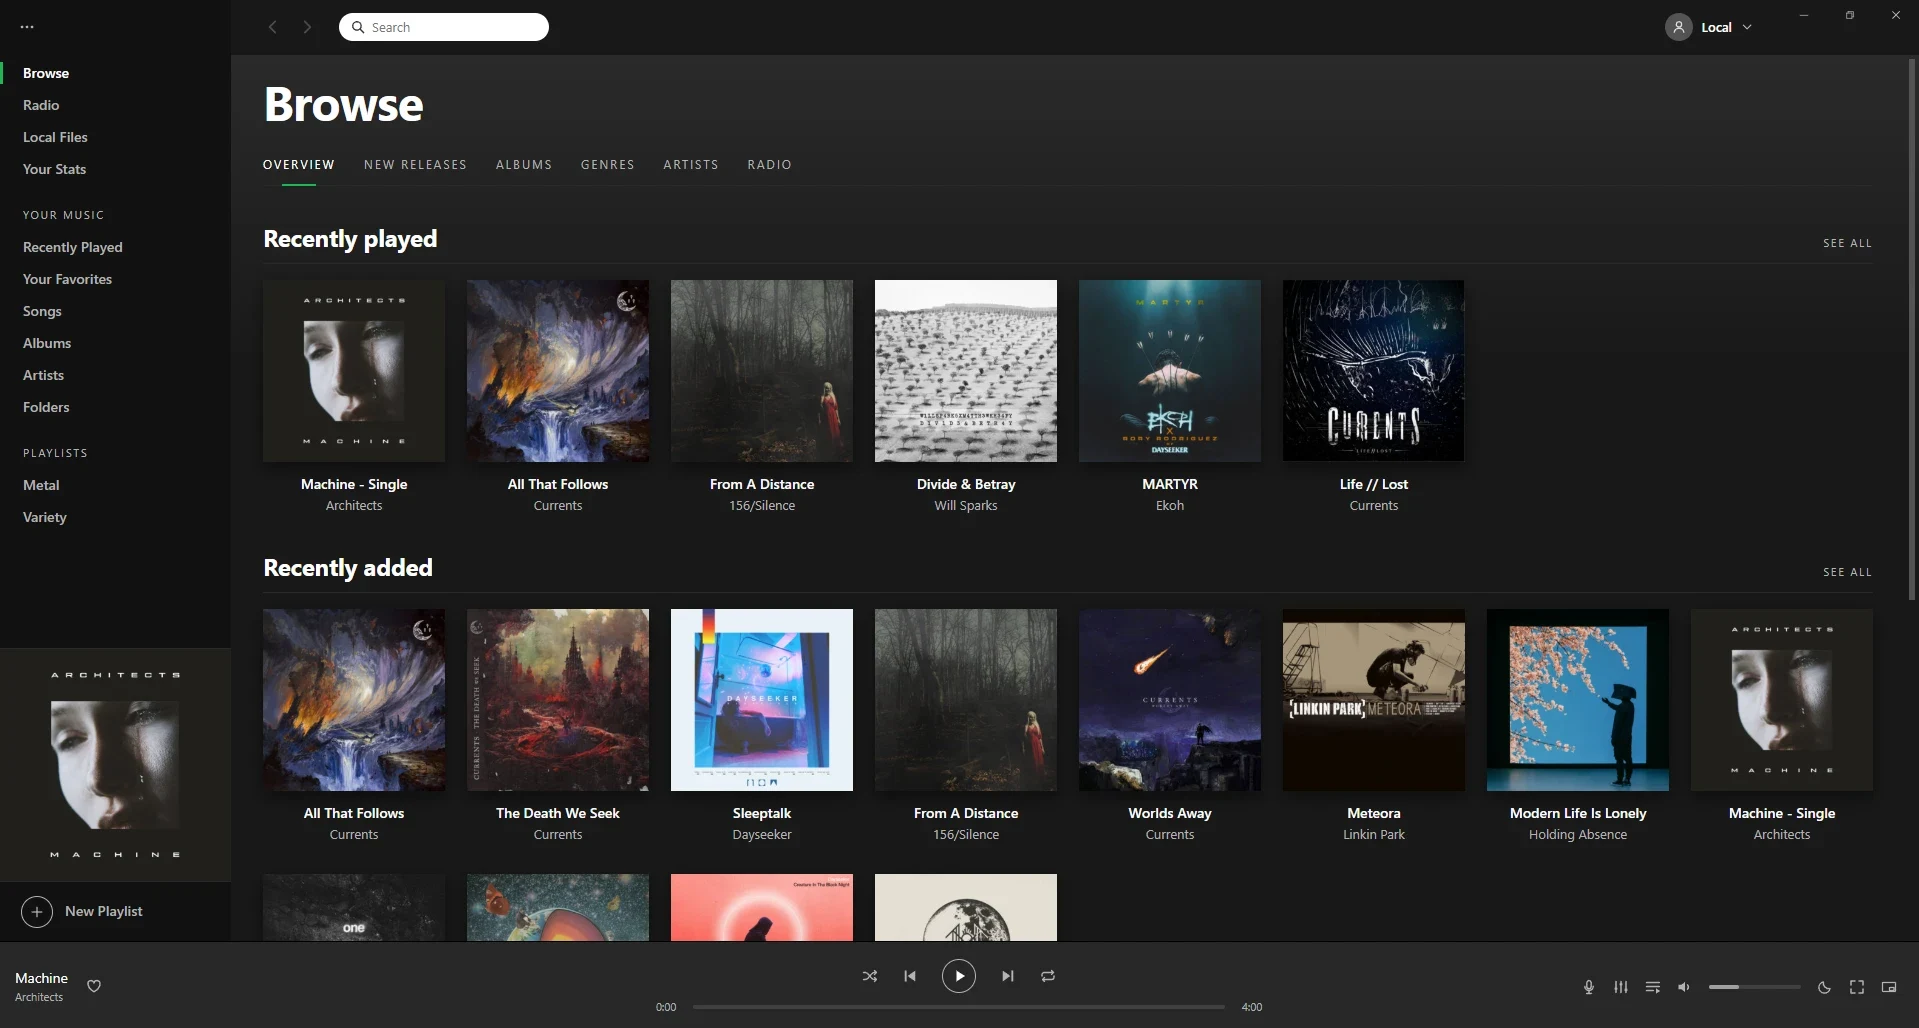
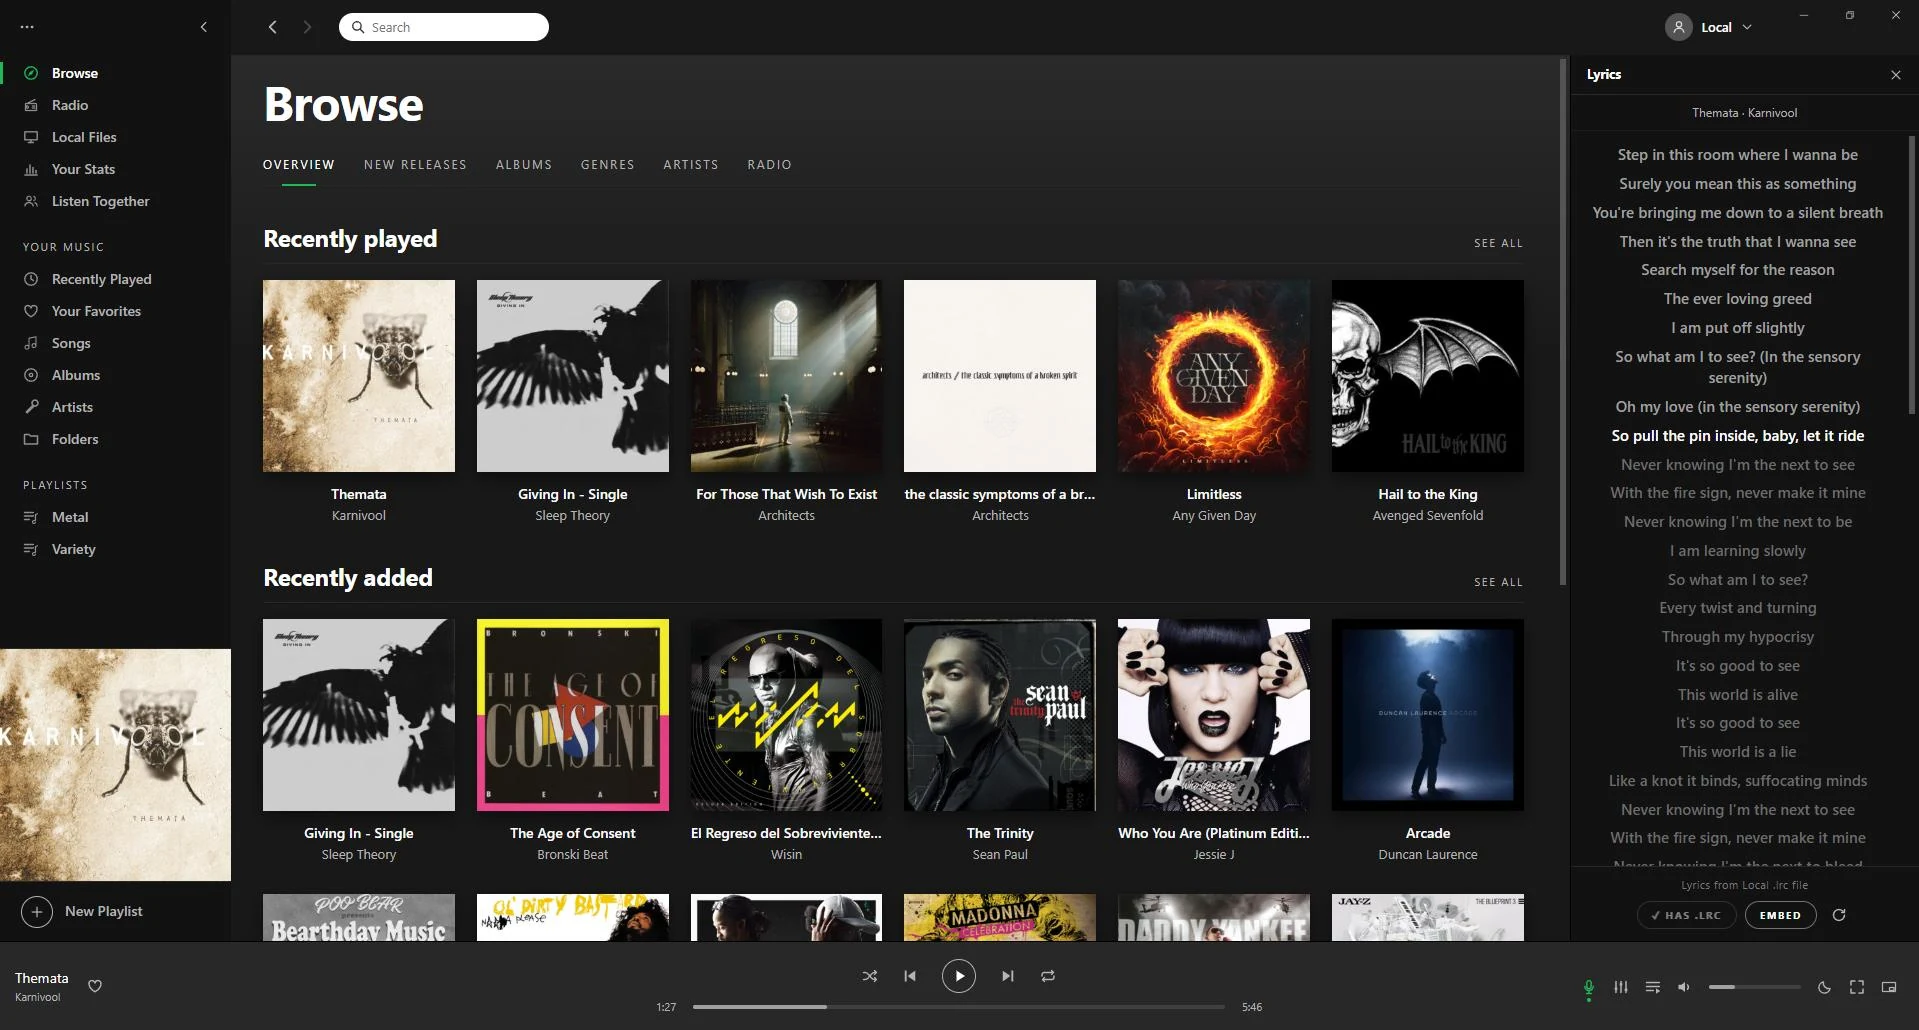
Version 1.1.3; new screenshots in the README

diff --git a/README.md b/README.md
@@ -108,11 +108,11 @@ Building from source? See [CONTRIBUTING.md → Running locally](CONTRIBUTING.md#
 
 ## See it in action
 
-<img width="1918" alt="Wax — Artist page with Popular songs from Last.fm" src="docs/screenshots/artist.webp" />
+<img width="1919" alt="Wax — Artist page with Popular songs from Last.fm" src="docs/screenshots/artist.webp" />
 
 *Artist page — the artist's photo, Popular songs ranked by Last.fm, Related Artists and About tabs, and every album below.*
 
-<img width="1919" alt="Wax — Full-screen Now Playing with synced lyrics" src="docs/screenshots/now-playing.webp" />
+<img width="1919" alt="Wax — Full-screen Now Playing with synced lyrics and volume" src="docs/screenshots/now-playing.webp" />
 
 *Full-screen Now Playing (F11) — big cover, a background tinted by the album art and synced lyrics that follow the song.*
 
@@ -144,7 +144,7 @@ Building from source? See [CONTRIBUTING.md → Running locally](CONTRIBUTING.md#
 - **Output device** picker and **WASAPI exclusive mode**
 - High-quality resampling and a 3 s decode buffer: no stutter, no harsh highs
 - **CUE sheets** — one-file albums split into sample-exact, gapless tracks
-- **Synced lyrics** column (LRCGET `.lrc`, embedded, LRCLIB) and **full-screen Now Playing** (F11)
+- **Synced lyrics** column (LRCGET `.lrc`, embedded, LRCLIB) and **full-screen Now Playing** (F11) — cover and artist photo in turn, its own volume
 - **Auto DJ**, artist **Radio**, **sleep timer**, mini player
 
 </td>
@@ -153,7 +153,7 @@ Building from source? See [CONTRIBUTING.md → Running locally](CONTRIBUTING.md#
 **Your library**
 
 - **Artists = your artist folders** — guests never clutter the list
-- **Browse, Albums, Songs, Genres, Folders**, Recently Played, Favorites, **ratings**
+- **Browse, Albums, Songs, Genres, Folders**, Recently Played, Favorites, **ratings** — filter and sort every list; albums split by disc
 - **Playlists** with folders, images, descriptions, drag & drop, M3U import / export
 - **Import Spotify playlists** (Exportify CSV) — rebuilt with your files
 - **Edit tags** in bulk, **MusicBrainz** fill-in, **tags from file names**, **fix capitalization**, **credits**
@@ -176,7 +176,7 @@ Building from source? See [CONTRIBUTING.md → Running locally](CONTRIBUTING.md#
 - **Your Stats** and a yearly **Wrapped**
 - **Search inside lyrics**
 - **Media keys**, Windows media panel, taskbar ⏮ ⏯ ⏭ buttons
-- **Tray**, **global shortcuts**, song-change notification
+- **Tray**, **global shortcuts**, song-change notification, mini player with volume, a sidebar that folds to its icons
 - **Discord** "Listening to" status
 - **Start with Windows** (or macOS / Linux login), Start-menu shortcut
 - **8 accent colors**

diff --git a/CHANGELOG.md b/CHANGELOG.md
@@ -2,7 +2,7 @@
 
 What changed in each version of Wax, as you'd notice it in the app.
 
-## Next version (not released yet)
+## 1.1.3
 
 - **Albums with several discs** show each disc under its own header ("Disc 1", "Disc 2"…), which folds its songs away with a click. Albums whose discs are in folders ("Disc 1", "CD2"…) are one album now, with the cover found one folder up
 - **Sort menus** in Songs, Your Favorites, Artists and every playlist (Albums already had one), next to their filter, with an arrow to reverse the order. Each playlist remembers its own; dragging songs to reorder works in the playlist's own order
